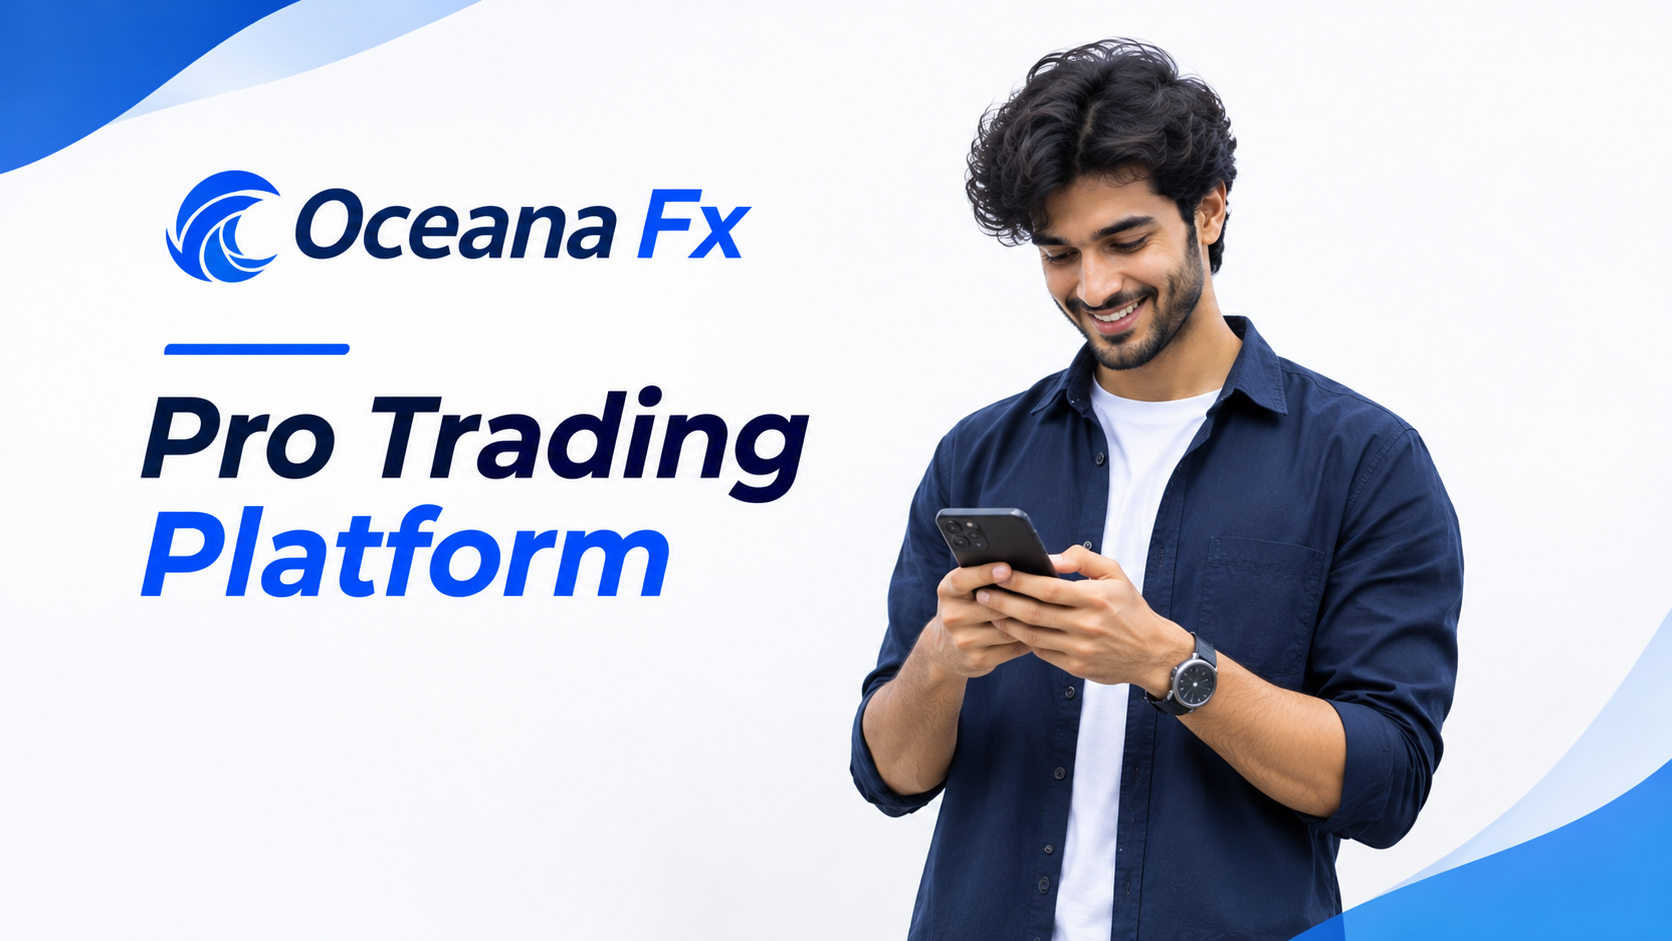
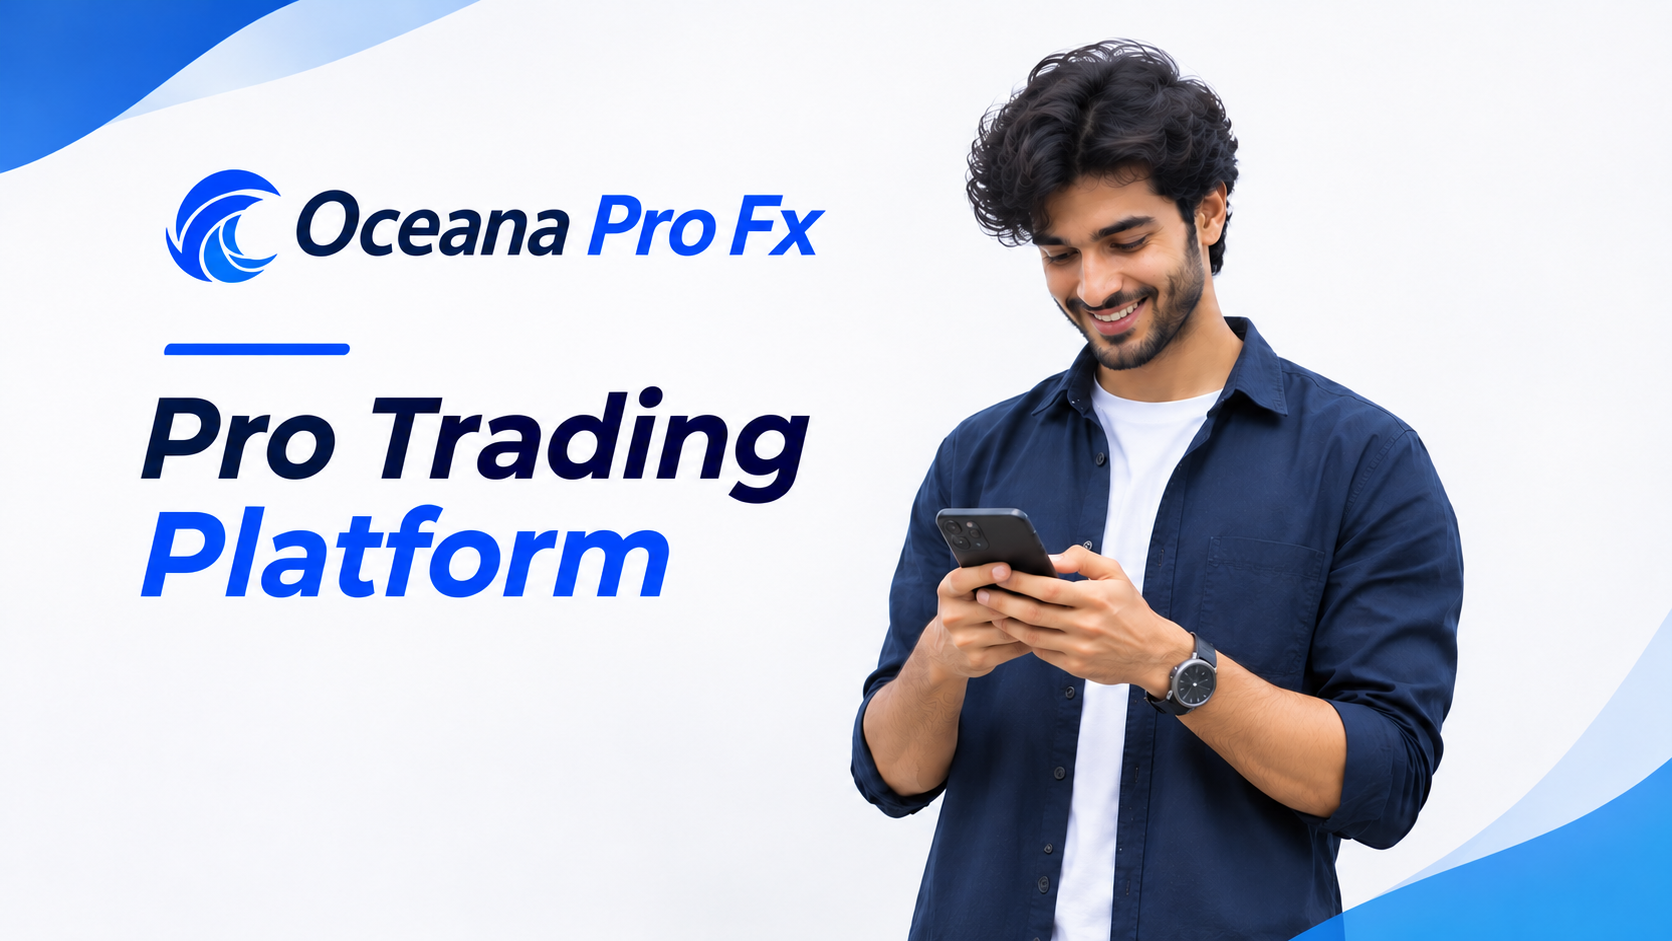
fix: remove invalid allowTransparency iframe prop; update brand alt text

diff --git a/app/components/pages/routes/PublicRoutePages.tsx b/app/components/pages/routes/PublicRoutePages.tsx
@@ -360,7 +360,7 @@ export function TradingMobileAppPageView() {
         title="Your watchlist and tickets, in your pocket."
         description="The Oceana Android app keeps quotes, charts, positions, and account tools with you — so exposure stays visible when you leave the desk."
         imageSrc="/images/mobile-trading-banner.png"
-        imageAlt="Oceana Fx Pro mobile trading"
+        imageAlt="Oceana Pro Fx mobile trading"
         imageFit="contain"
         ctas={[
           {
@@ -549,7 +549,7 @@ export function TradingPammPageView() {
         title="Put capital with managers — keep the structure visible."
         description="PAMM on Oceana is designed for investors who want managed strategies with clear allocation, reporting, and risk boundaries."
         imageSrc="/images/pamm-growth-banner.png"
-        imageAlt="Oceana Fx Pro PAMM — trade together, grow together"
+        imageAlt="Oceana Pro Fx PAMM — trade together, grow together"
         ctas={[
           { label: "Open Account", href: "/open-account", variant: "primary" },
           { label: "Contact desk", href: "/contact", variant: "ghost" },

diff --git a/app/components/landing/LandingPage.tsx b/app/components/landing/LandingPage.tsx
@@ -312,7 +312,7 @@ export default function LandingPage() {
             {/* eslint-disable-next-line @next/next/no-img-element */}
             <img
               src="/images/oceana-fx-pro-platform.png"
-              alt="Oceana Fx Pro trading platform"
+              alt="Oceana Pro Fx trading platform"
               className="relative z-10 h-auto w-full rounded-2xl border border-white/10 bg-white shadow-[0_28px_60px_-28px_rgba(0,0,0,0.7)]"
             />
           </div>

diff --git a/app/economic-calendar/page.tsx b/app/economic-calendar/page.tsx
@@ -54,7 +54,6 @@ export default function EconomicCalendarPage() {
                 width="100%"
                 height="720"
                 frameBorder="0"
-                allowTransparency
                 loading="lazy"
                 className="block min-h-[540px] w-full bg-white"
               />
